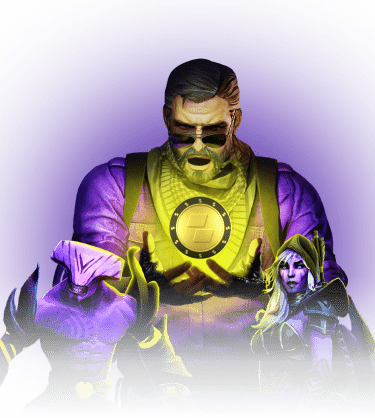
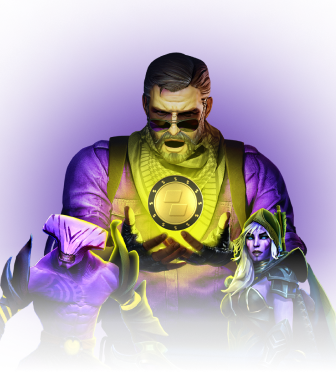
new figma

diff --git a/src/components/Promo/Promo.module.scss b/src/components/Promo/Promo.module.scss
@@ -3,16 +3,19 @@
 .wrapper {
   position: relative;
   margin-top: 80px;
+
   .container {
     width: 100%;
     margin-left: 150px;
     display: flex;
     flex-direction: column;
+
     .section {
       display: flex;
       flex-direction: column;
       gap: 20px;
       width: 80%;
+
       .title {
         font-weight: 900;
         font-size: 40px;
@@ -22,6 +25,7 @@
         font-family: "HelveticaNeue";
         line-height: 120%;
       }
+
       .group {
         background: linear-gradient(180deg, #4a2c6f 0%, #1b1e23 100%);
         border-radius: 24px;
@@ -31,21 +35,29 @@
         gap: 10px;
         justify-content: space-between;
         align-items: center;
+
         .img {
           width: 53%;
         }
+        .img_mob {
+          display: none;
+        }
+
         .desc {
           padding-left: 40px;
+
           .title {
             font-weight: 700;
             font-size: 40px;
             text-transform: uppercase;
             color: #ffffff;
           }
+
           .subtitles {
             display: flex;
             flex-wrap: wrap;
             gap: 10px;
+
             .subtitle {
               font-weight: 500;
               font-size: 16px;
@@ -91,10 +103,47 @@
   .wrapper {
     margin-top: 40px;
     .container {
-      margin-left: 19px;
+      margin: 0px;
       .section {
+        width: 100%;
         .title {
           font-size: 25px;
+          margin-left: 19px;
+        }
+        .group {
+          height: auto;
+          padding: 20px;
+          display: flex;
+          flex-direction: column;
+          align-items: center;
+          .img {
+            display: none;
+          }
+          .img_mob {
+            display: block;
+            object-fit: cover;
+            width: 100%;
+          }
+          .desc {
+            padding-left: 0;
+            display: flex;
+            flex-direction: column;
+            gap: 20px;
+            .title {
+              font-size: 20px;
+              margin-left: 0px;
+            }
+            .subtitles {
+              display: flex;
+              flex-direction: column;
+              align-items: center;
+              .subtitle {
+                font-size: 14px;
+                height: auto;
+                padding: 8px;
+              }
+            }
+          }
         }
       }
     }

diff --git a/src/components/Promo/Promo.jsx b/src/components/Promo/Promo.jsx
@@ -1,6 +1,7 @@
 import React from "react";
 import styles from "./Promo.module.scss";
-import banner from "../../assets/images/banner.png"
+import banner from "../../assets/images/banner.png";
+import banner_mob from "../../assets/images/banner-mob.png"
 
 const Promo = () => {
   return (
@@ -26,6 +27,7 @@ const Promo = () => {
               </div>
             </div>
             <img src={banner} className={styles.img}/>
+            <img src={banner_mob} className={styles.img_mob}/>
           </div>
         </div>
       </div>
